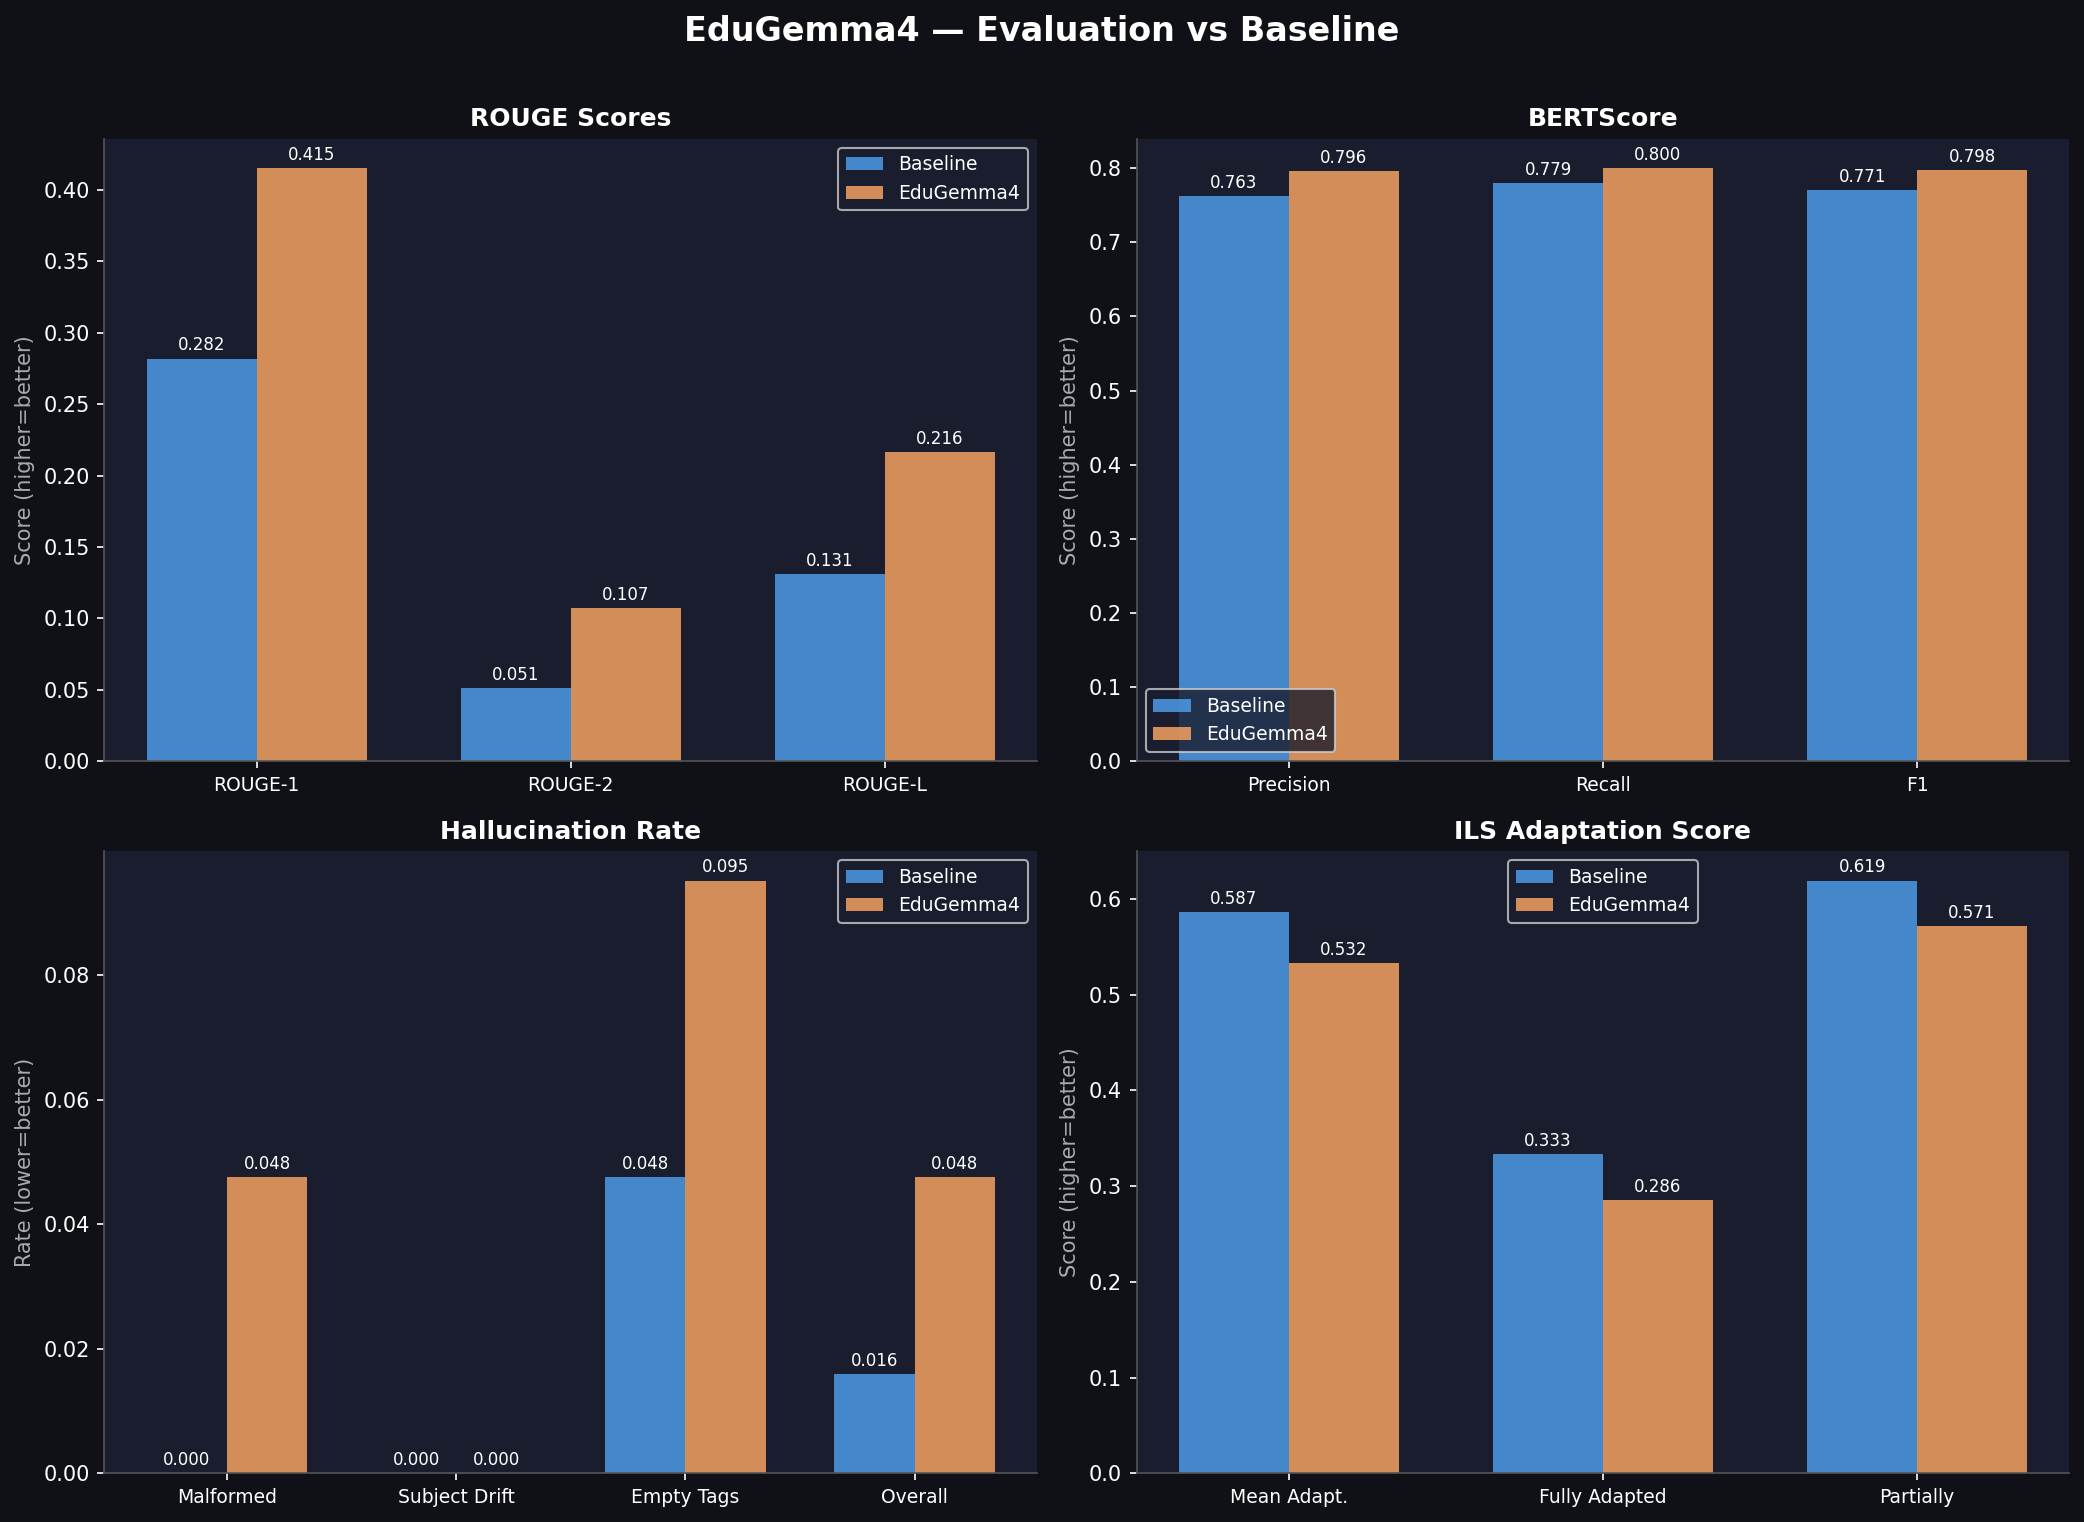
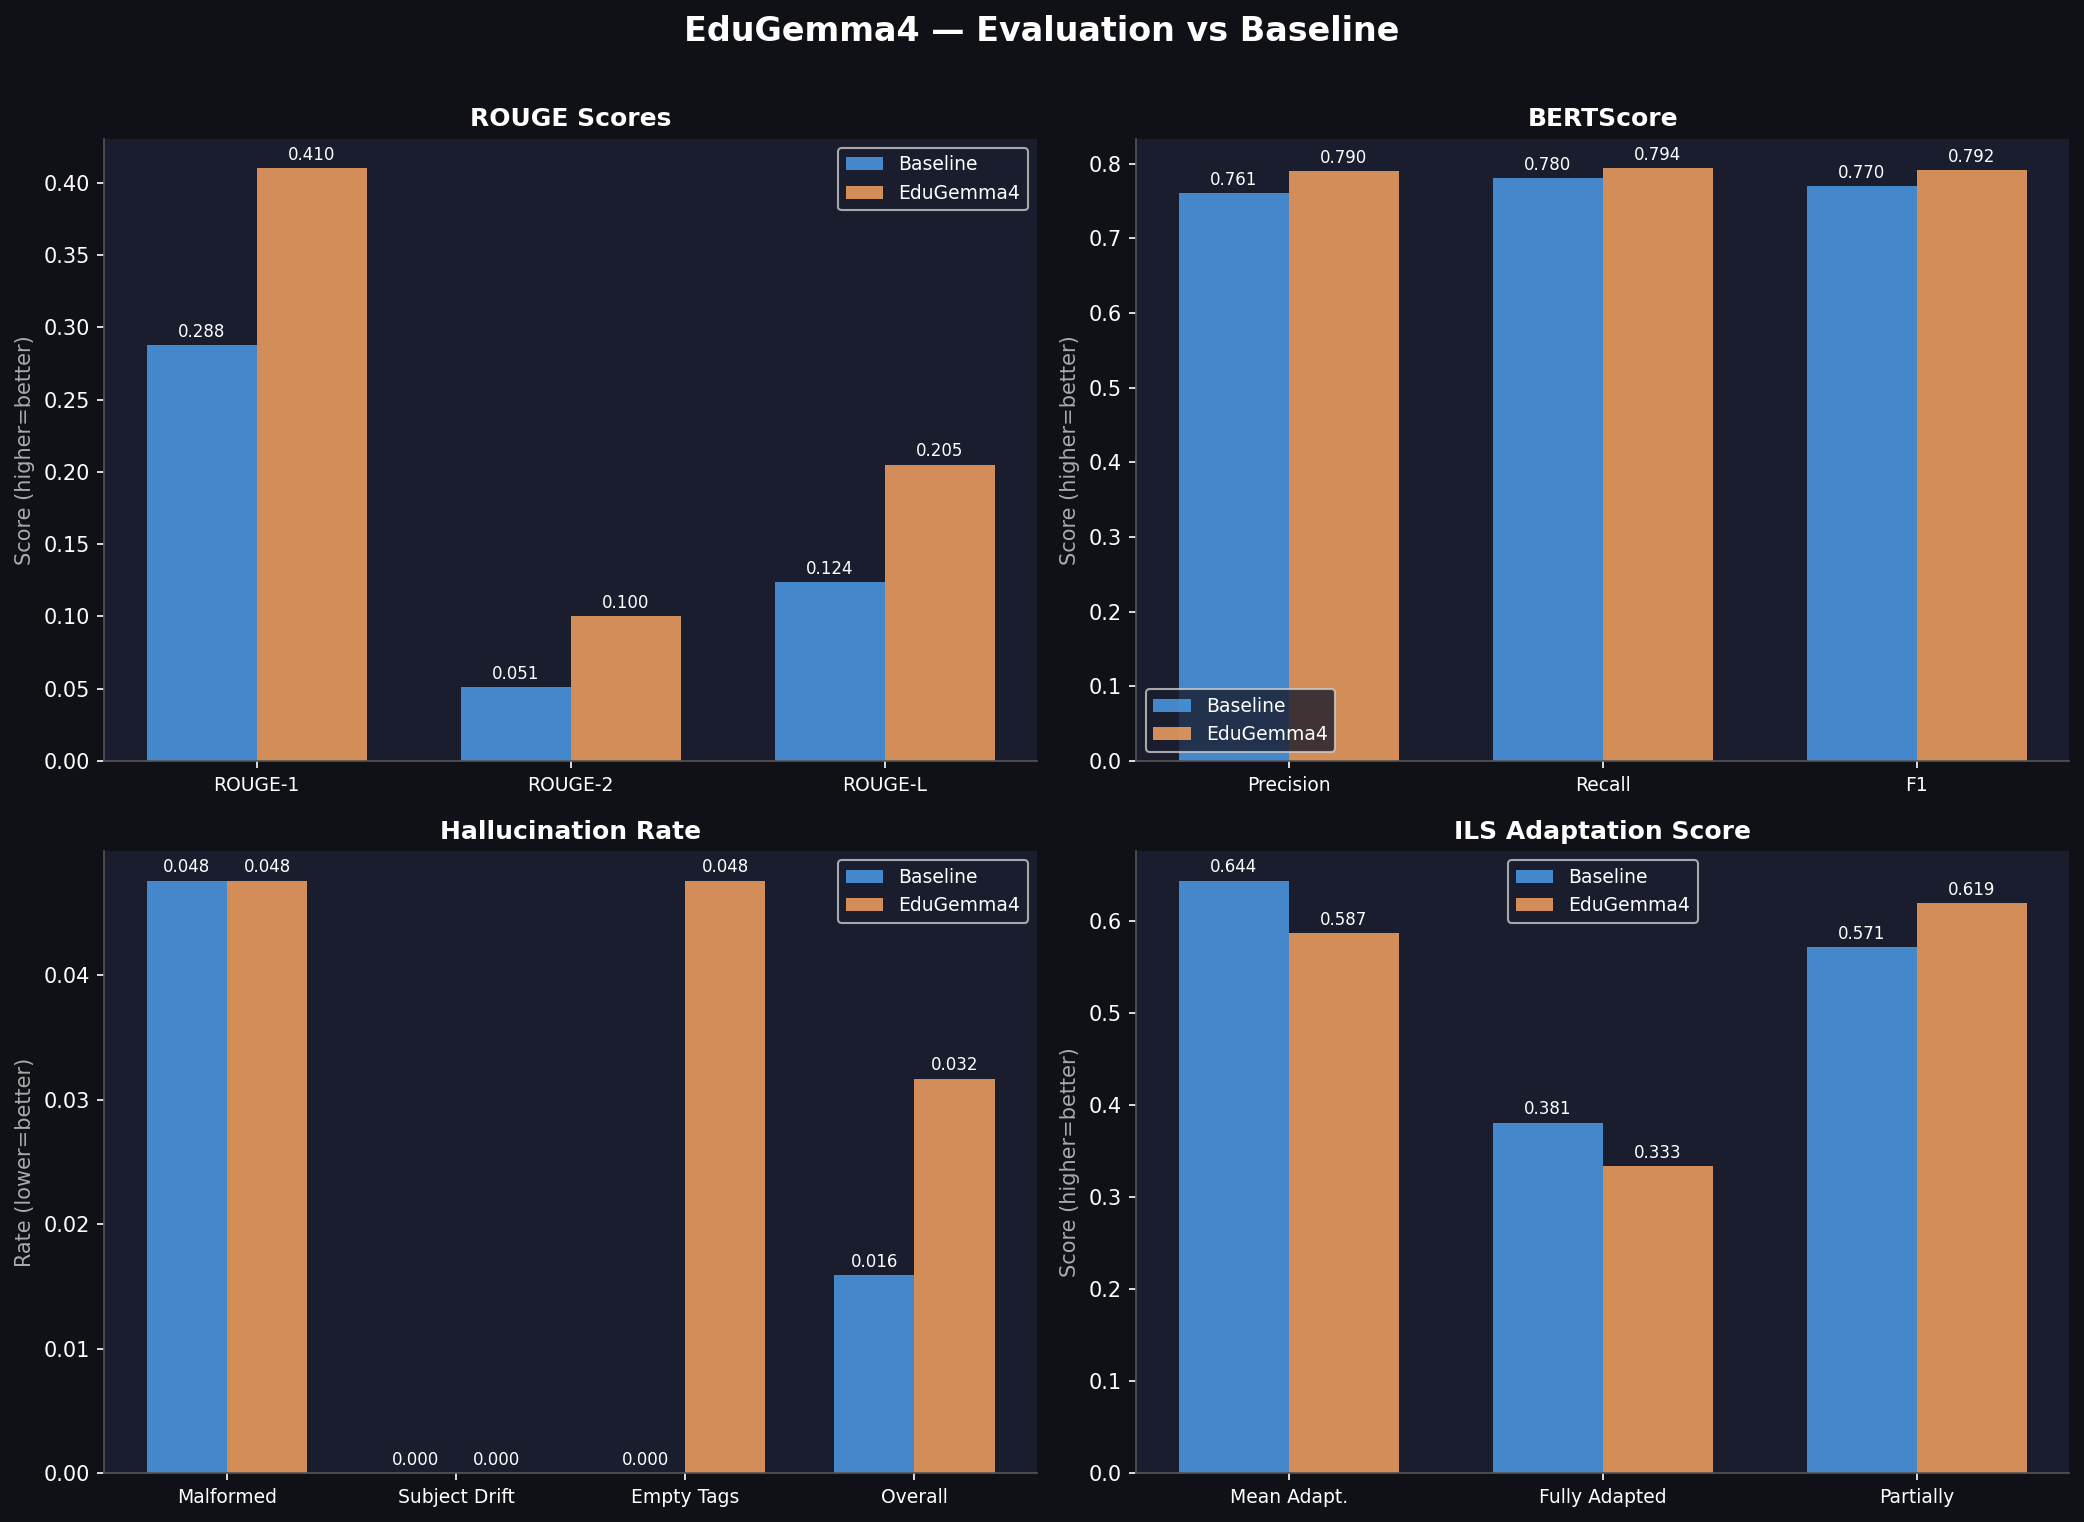
feat: Add evaluation results | ROUGE1=0.4103 | BERTScore-F1=0.7920

diff --git a/eval/RESULTS.md b/eval/RESULTS.md
@@ -4,11 +4,11 @@
  
 | Metric | Baseline | EduGemma4 | Δ |
 |--------|----------|-----------|---|
-| ROUGE-1 | 0.2820 | 0.4154 | +0.1334 |
-| ROUGE-2 | 0.0511 | 0.1072 | +0.0561 |
-| ROUGE-L | 0.1310 | 0.2162 | +0.0852 |
-| BERTScore F1 | 0.7710 | 0.7978 | +0.0268 |
-| Hallucination Rate | 0.0159 | 0.0476 | --0.0317 |
-| ILS Adaptation | 0.5865 | 0.5325 | +-0.0540 |
+| ROUGE-1 | 0.2877 | 0.4103 | +0.1226 |
+| ROUGE-2 | 0.0512 | 0.1002 | +0.0490 |
+| ROUGE-L | 0.1239 | 0.2051 | +0.0812 |
+| BERTScore F1 | 0.7703 | 0.7920 | +0.0217 |
+| Hallucination Rate | 0.0159 | 0.0317 | --0.0158 |
+| ILS Adaptation | 0.6437 | 0.5865 | +-0.0572 |
  
 ![Evaluation Dashboard](evaluation_dashboard.png)